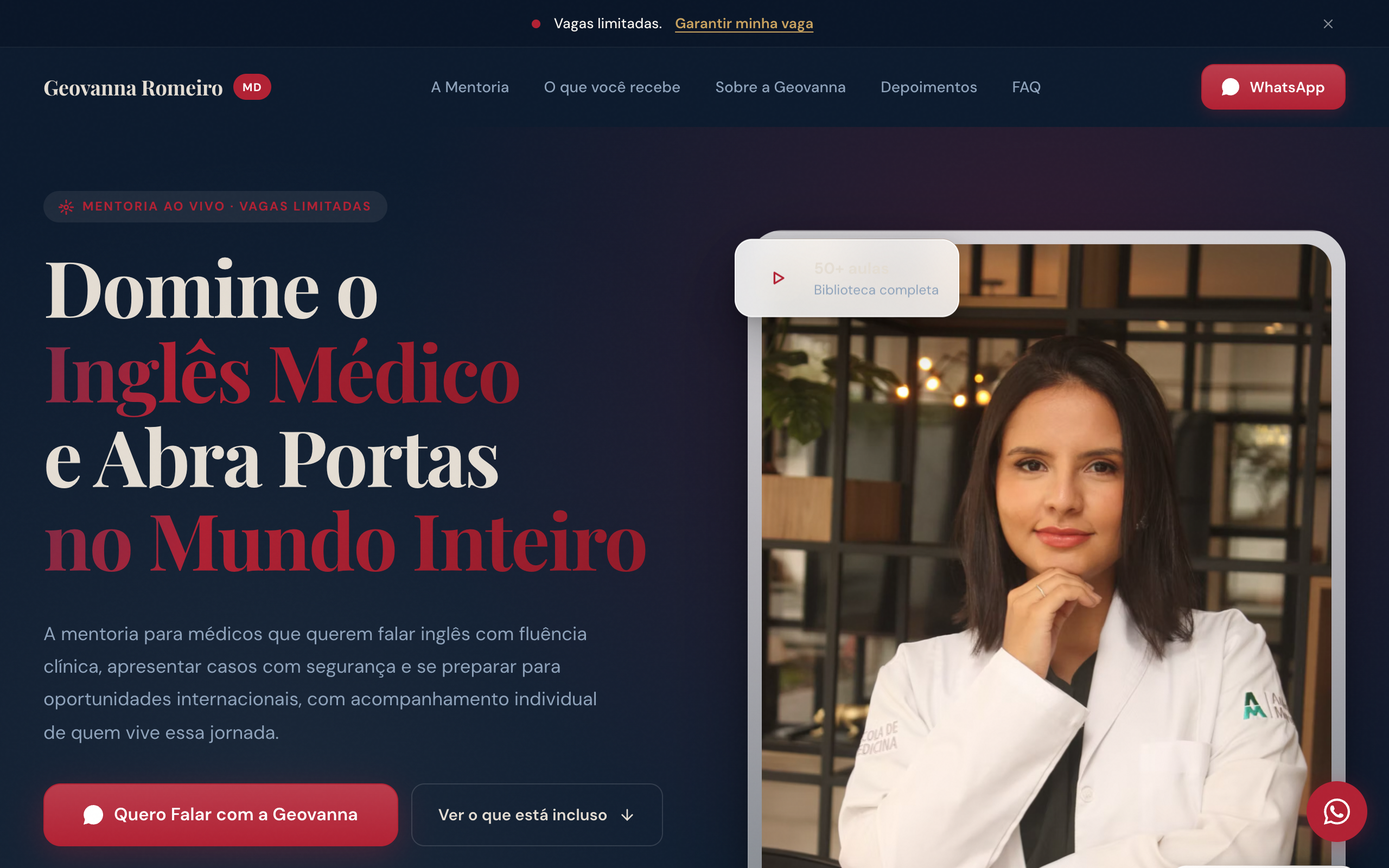
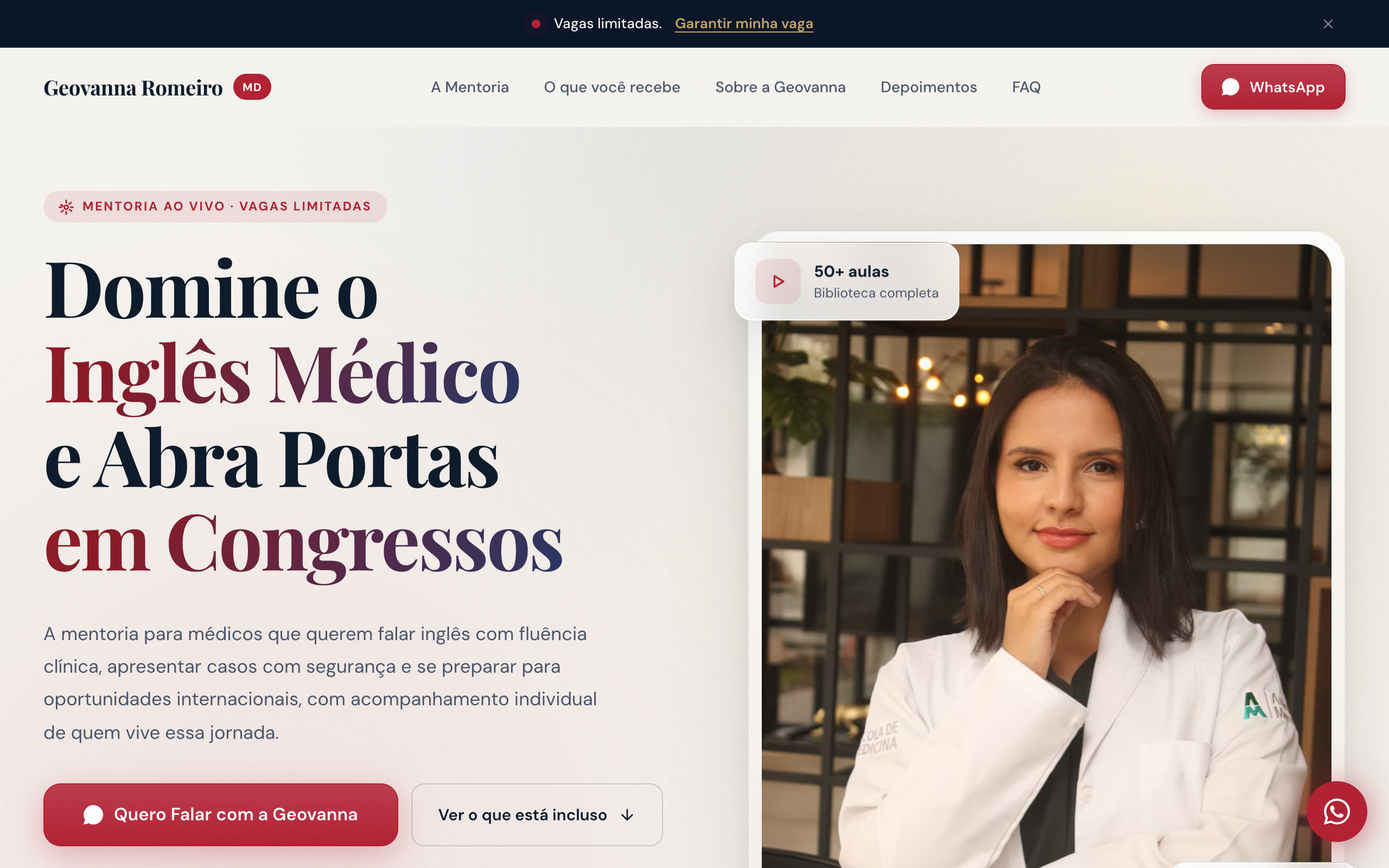
refine: stats, projetos, testimonial e screenshot geovanna
- Hero stat: "mais resultado com menor custo possível" (bold em mais/menor)
- Projetos: "Dra. Camila Sutilo" e "Geovanna Romeiro" com categoria "Gerenciamento ponta a ponta"
- TestimonialQuote: "Dra. Camila Sutilo" / "Médica"
- Screenshot Geovanna: hero com fundo claro (delay 10s)

diff --git a/app/components/Projects.tsx b/app/components/Projects.tsx
@@ -7,15 +7,15 @@ import StaggerContainer, { staggerItem } from "./StaggerContainer";
 
 const projects = [
   {
-    name: "Clínica Dra. Camila",
-    category: "Landing Page",
+    name: "Dra. Camila Sutilo",
+    category: "Gerenciamento ponta a ponta",
     gradient: "from-amber-900 to-amber-800",
     preview: "/images/preview-camila.png",
     url: "https://camilasutilo.com",
   },
   {
-    name: "Geovanna LP",
-    category: "Landing Page",
+    name: "Geovanna Romeiro",
+    category: "Gerenciamento ponta a ponta",
     gradient: "from-rose-900 to-rose-800",
     preview: "/images/preview-geovanna.png",
     url: "https://geovanna-lp.web.app",

diff --git a/app/components/Hero.tsx b/app/components/Hero.tsx
@@ -52,8 +52,8 @@ export default function Hero() {
                 </div>
                 <div className="h-10 w-px bg-black/10" />
                 <div>
-                  <p className="font-bold text-black">3x</p>
-                  <p className="text-gray-400">mais leads com IA</p>
+                  <p className="text-gray-400"><span className="font-bold text-black">mais</span> resultado com</p>
+                  <p className="text-gray-400"><span className="font-bold text-black">menor</span> custo possível</p>
                 </div>
               </div>
             </AnimateIn>

diff --git a/app/components/TestimonialQuote.tsx b/app/components/TestimonialQuote.tsx
@@ -23,9 +23,9 @@ export default function TestimonialQuote() {
             </div>
             <div className="text-left">
               <p className="text-sm font-semibold text-black">
-                Dra. Camila S.
+                Dra. Camila Sutilo
               </p>
-              <p className="text-sm text-gray-500">Nutróloga</p>
+              <p className="text-sm text-gray-500">Médica</p>
             </div>
           </div>
         </AnimateIn>
